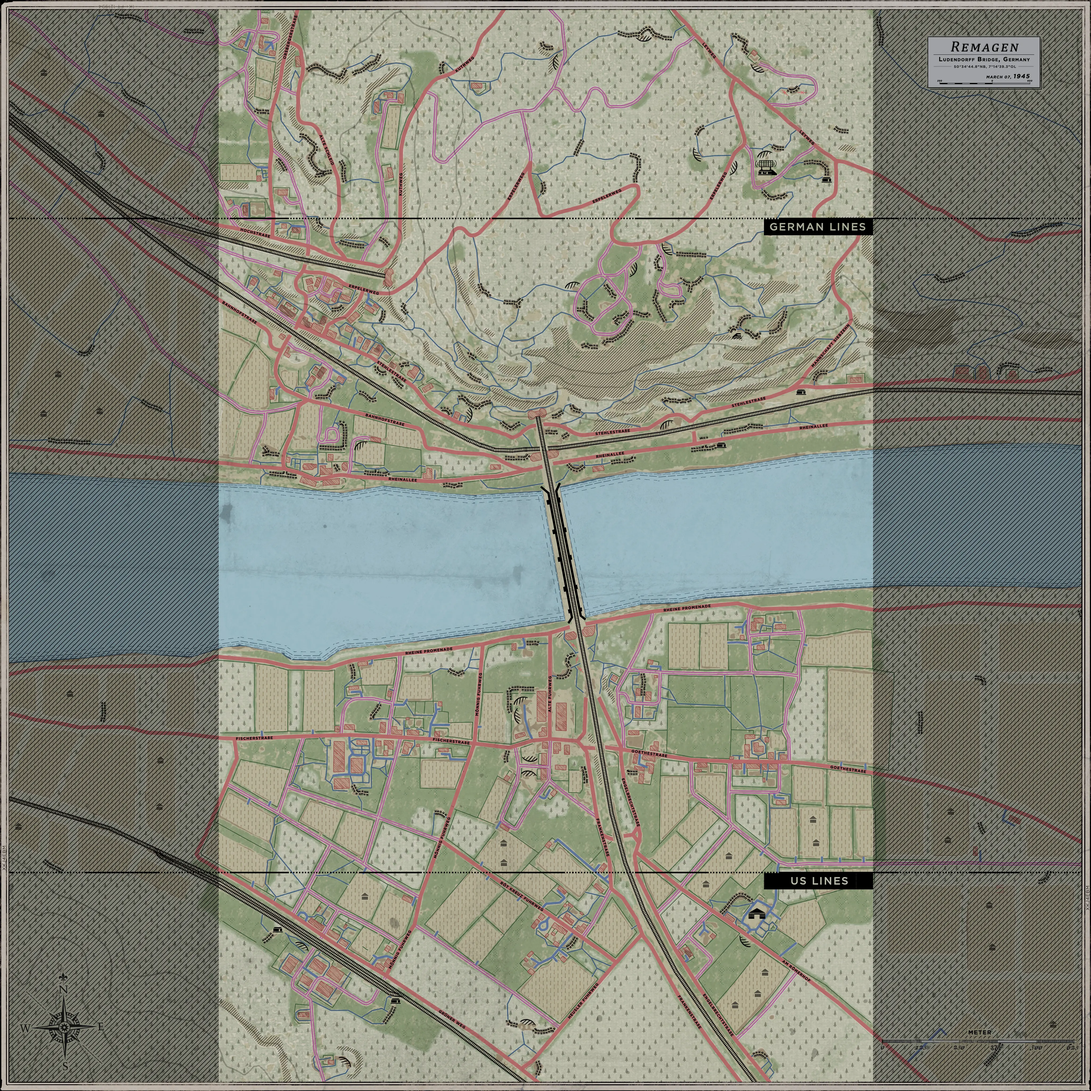
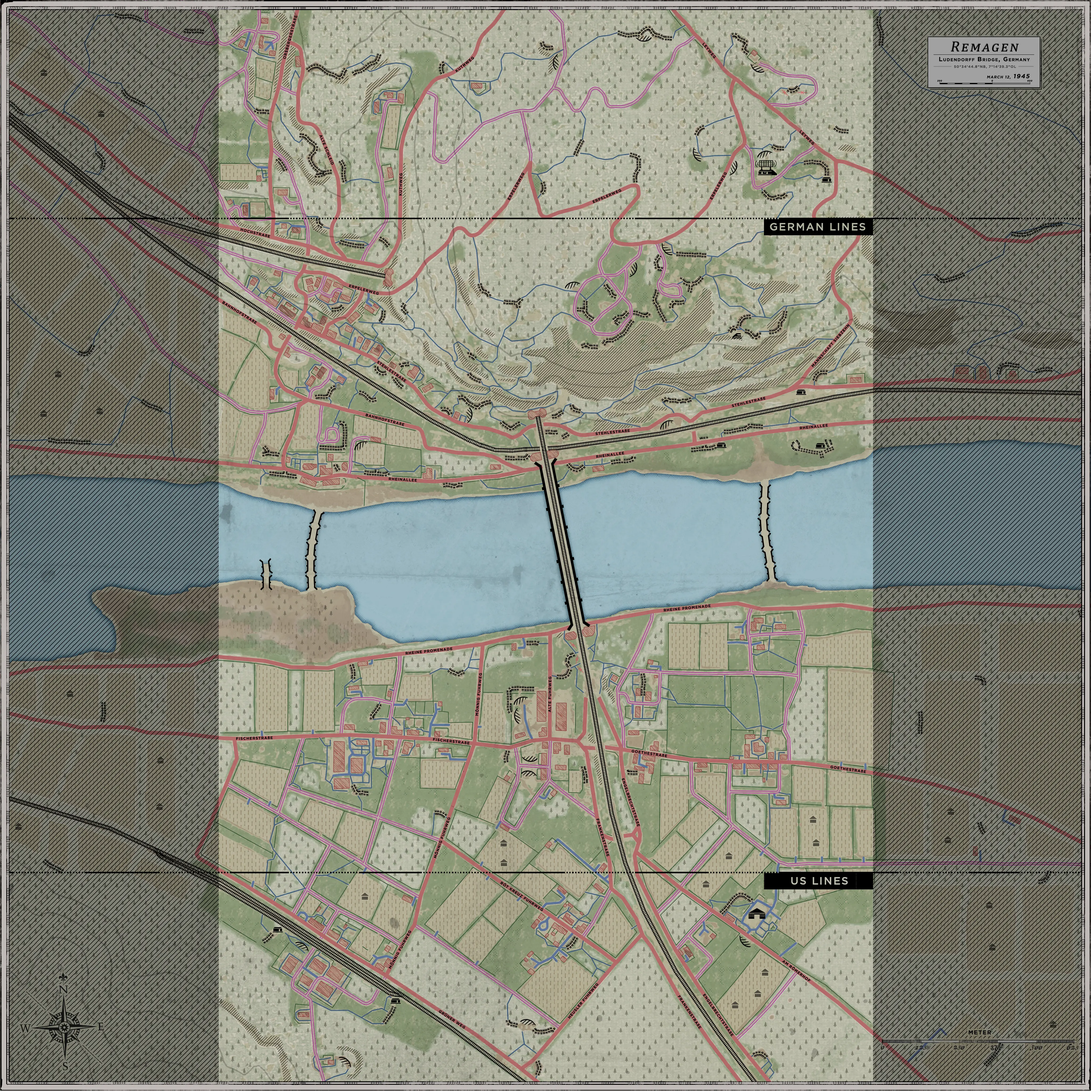
Compatibility Preparation for Update 19.1
Initial framework for Game Update 19.1 support.

diff --git a/index.html b/index.html
@@ -15,7 +15,7 @@
   <link rel="icon" type="image/webp" href="images/favicon.webp">
   <link rel="icon" type="image/png" href="images/favicon.png">
   <link rel="apple-touch-icon" href="images/icon-180.png">
-  <link rel="stylesheet" href="css/style.css?v=3.35">
+  <link rel="stylesheet" href="css/style.css?v=3.36">
   
   <script>
     if ('serviceWorker' in navigator) {
@@ -191,12 +191,18 @@
   </div>
 
   <div id="mapModal" class="modal-overlay">
-    <div class="modal-content">
-      <div class="modal-brand-header">
-        <div class="main-title">HLL ARTY MAP CALCULATOR</div>
-        <div class="main-subtitle-credits"><span id="appVersion">v1.1.0</span> • 2026 • BY LITKU</div>
-        <button class="close-btn" id="closeModalBtn" aria-label="Close Map Selection">×</button>
+  <div class="modal-content">
+    <div class="modal-brand-header">
+      <div class="main-title">HLL ARTY MAP CALCULATOR</div>
+      <div class="main-subtitle-credits">
+        <span id="appVersion">v1.1.7</span> 
+        <span class="spacer">•</span> 
+        <span id="gameVersion">UPDATE 19.1</span> 
+        <span class="spacer">•</span> 
+        <span>BY LITKU</span>
       </div>
+      <button class="close-btn" id="closeModalBtn" aria-label="Close Map Selection">×</button>
+    </div>
 
       <div class="modal-sub-header">
         <div class="modal-subtitle-container">
@@ -389,6 +395,6 @@
 
 <script src="js/maps.js"></script> 
 <script src="js/ballistics.js"></script> 
-<script src="js/script.js?v=3.35"></script>
+<script src="js/script.js?v=3.36"></script>
 </body>
 </html>

diff --git a/js/maps.js b/js/maps.js
@@ -718,8 +718,8 @@ REM: {
       { label: "KASBACH OUTLOOK", id: "B14", gameX: 38436.418, gameY: 41098.23, radius: 4000.0, team: "ger", type: "strongpoint" }, 
 
       // --- NEUTRAL SECTORS (Middle/River) ---
-      { label: "ST. SEVERIN CHAPEL", id: "B9", gameX: -39275.0, gameY: 12967.0, radius: 4000.0, team: "neu", type: "strongpoint" }, 
-      { label: "LUDENDORFF BRIDGE", id: "B1", gameX: 3032.2412, gameY: -7.021, radius: 8000.0, team: "neu", type: "strongpoint" }, 
+      { label: "ERPEL", id: "B9", gameX: -39275.0, gameY: 40853.0, radius: 4000.0, team: "neu", type: "strongpoint" }, 
+      { label: "LUDENDORFF BRIDGE", id: "B1", gameX: 3032.2412, gameY: -7.0210953, radius: 8000.0, team: "neu", type: "strongpoint" }, 
       { label: "BAUERNHOF AM RHEIN", id: "B6", gameX: 38817.02, gameY: -15613.944, radius: 4000.0, team: "neu", type: "strongpoint" }, 
 
       // --- ALLIES SECTORS (South/Bottom) ---

diff --git a/js/script.js b/js/script.js
@@ -2,7 +2,23 @@
 // 1. DATA & CONFIGURATION
 // ==========================================
 
-const APP_VERSION = "v1.1.6"; // UPDATES EVERYWHERE
+const APP_VERSION = "v1.1.7";
+const GAME_VERSION = "UPDATE 19.1";
+
+// Create a simple map of IDs and what text should go in them
+const versionMap = {
+  'appVersion': APP_VERSION,
+  'appVersionPanel': APP_VERSION,
+  'gameVersion': GAME_VERSION
+};
+
+// Loop through and update only the ones that exist on the current page
+Object.keys(versionMap).forEach(id => {
+  const element = document.getElementById(id);
+  if (element) {
+    element.textContent = versionMap[id];
+  }
+});
 
 // Detect Firefox to enable specific optimizations (sub-pixel rendering)
 const isFirefox = navigator.userAgent.toLowerCase().indexOf('firefox') > -1;
